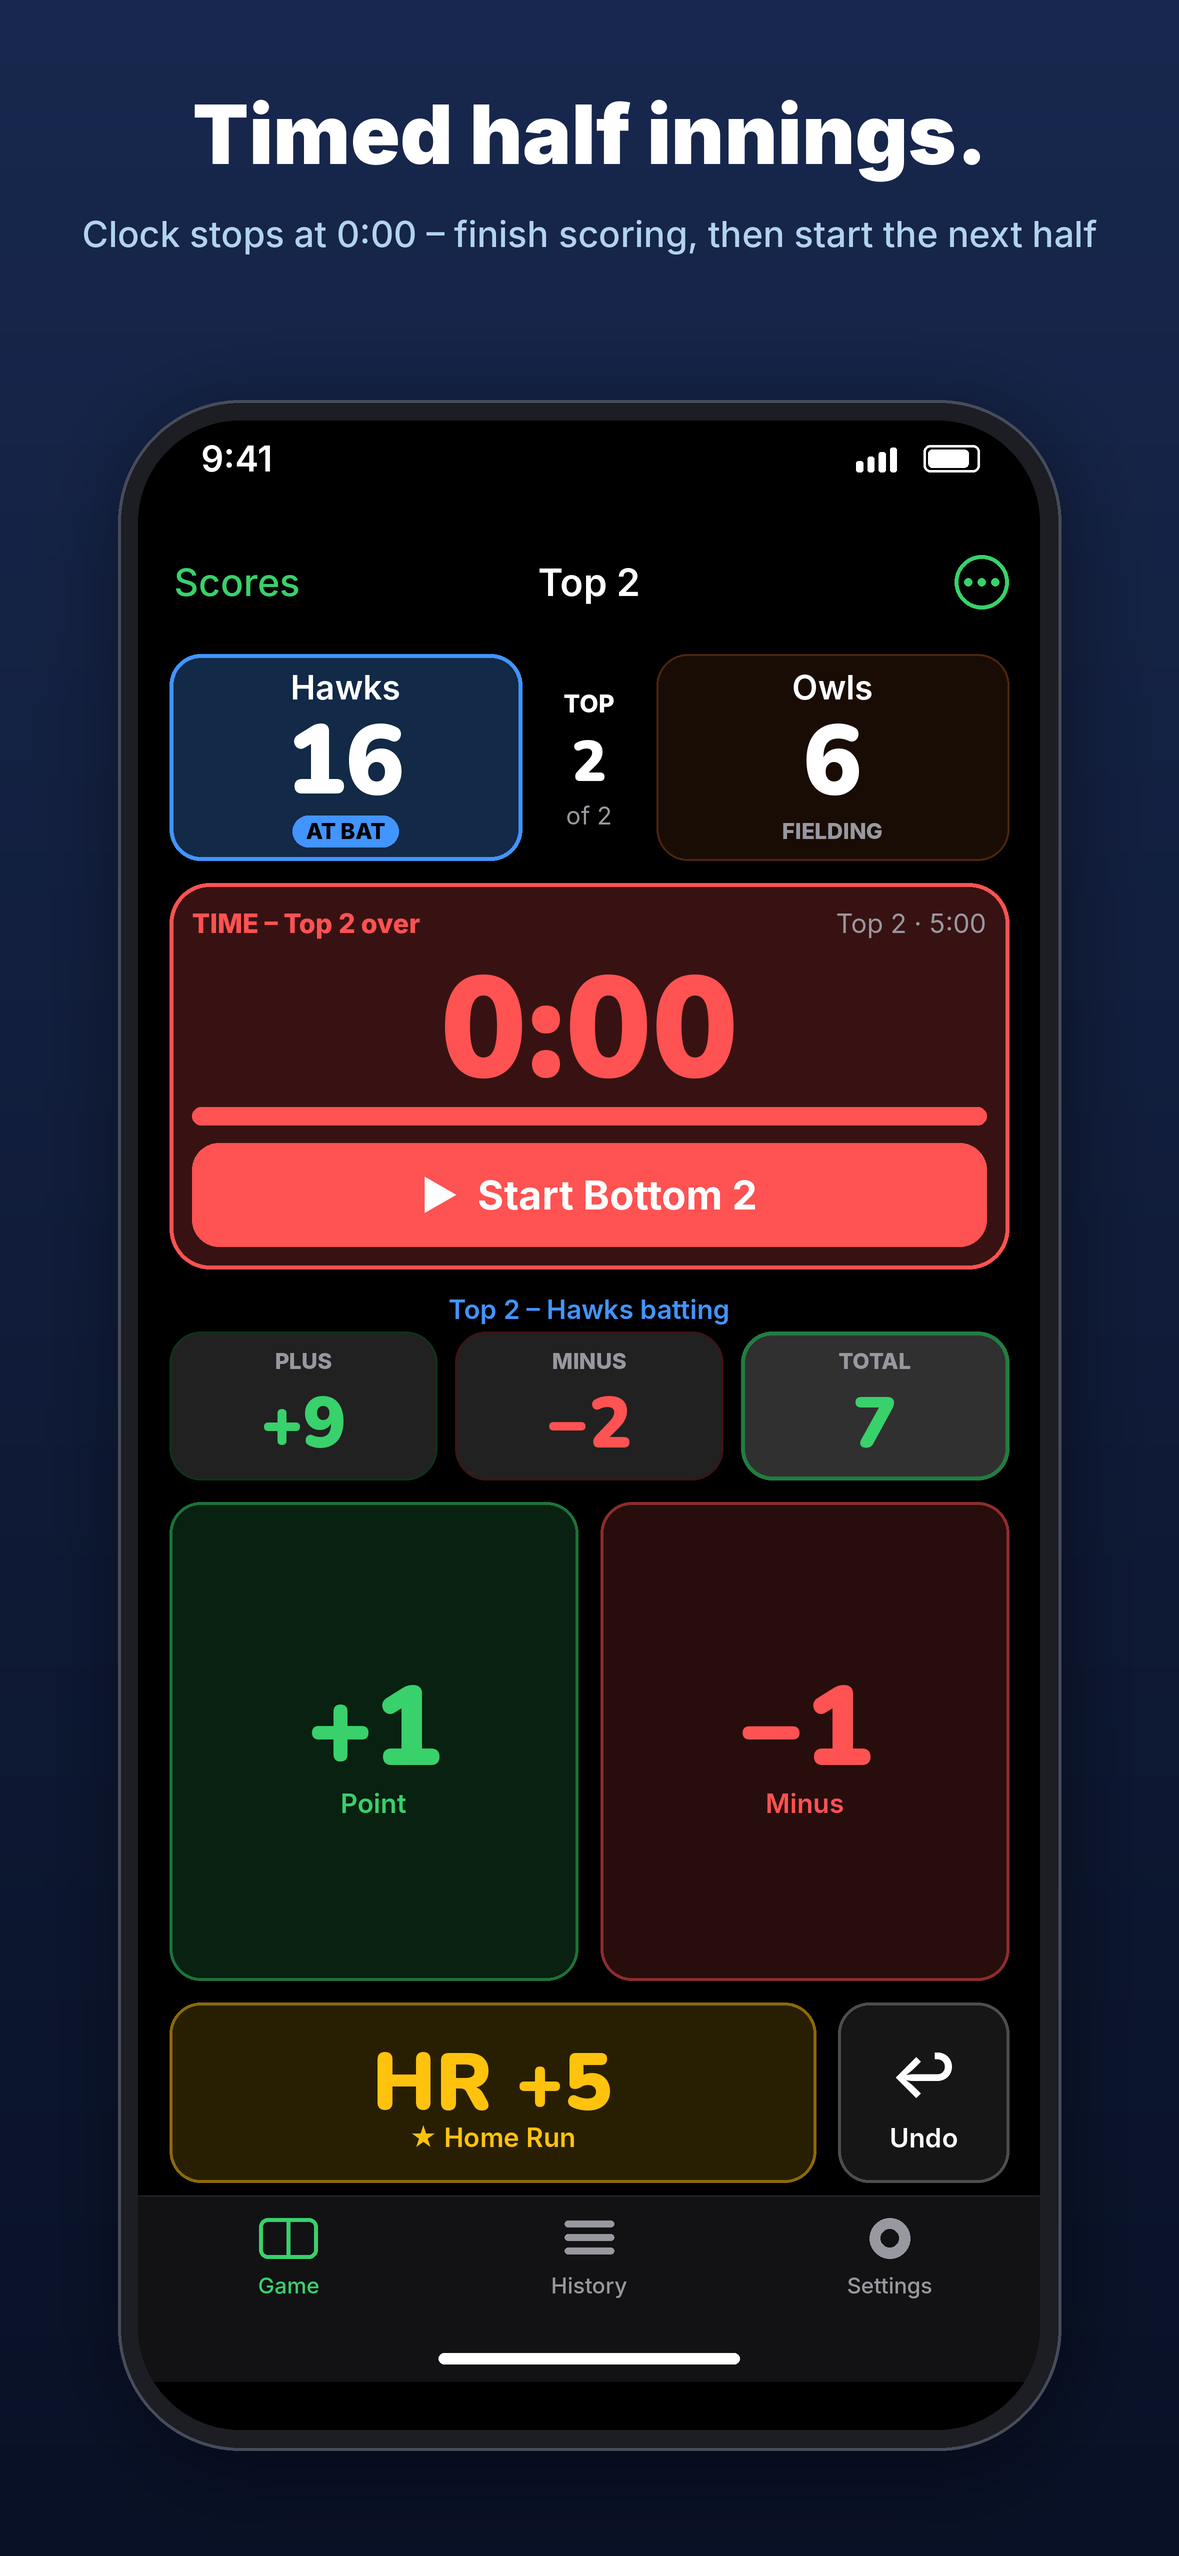
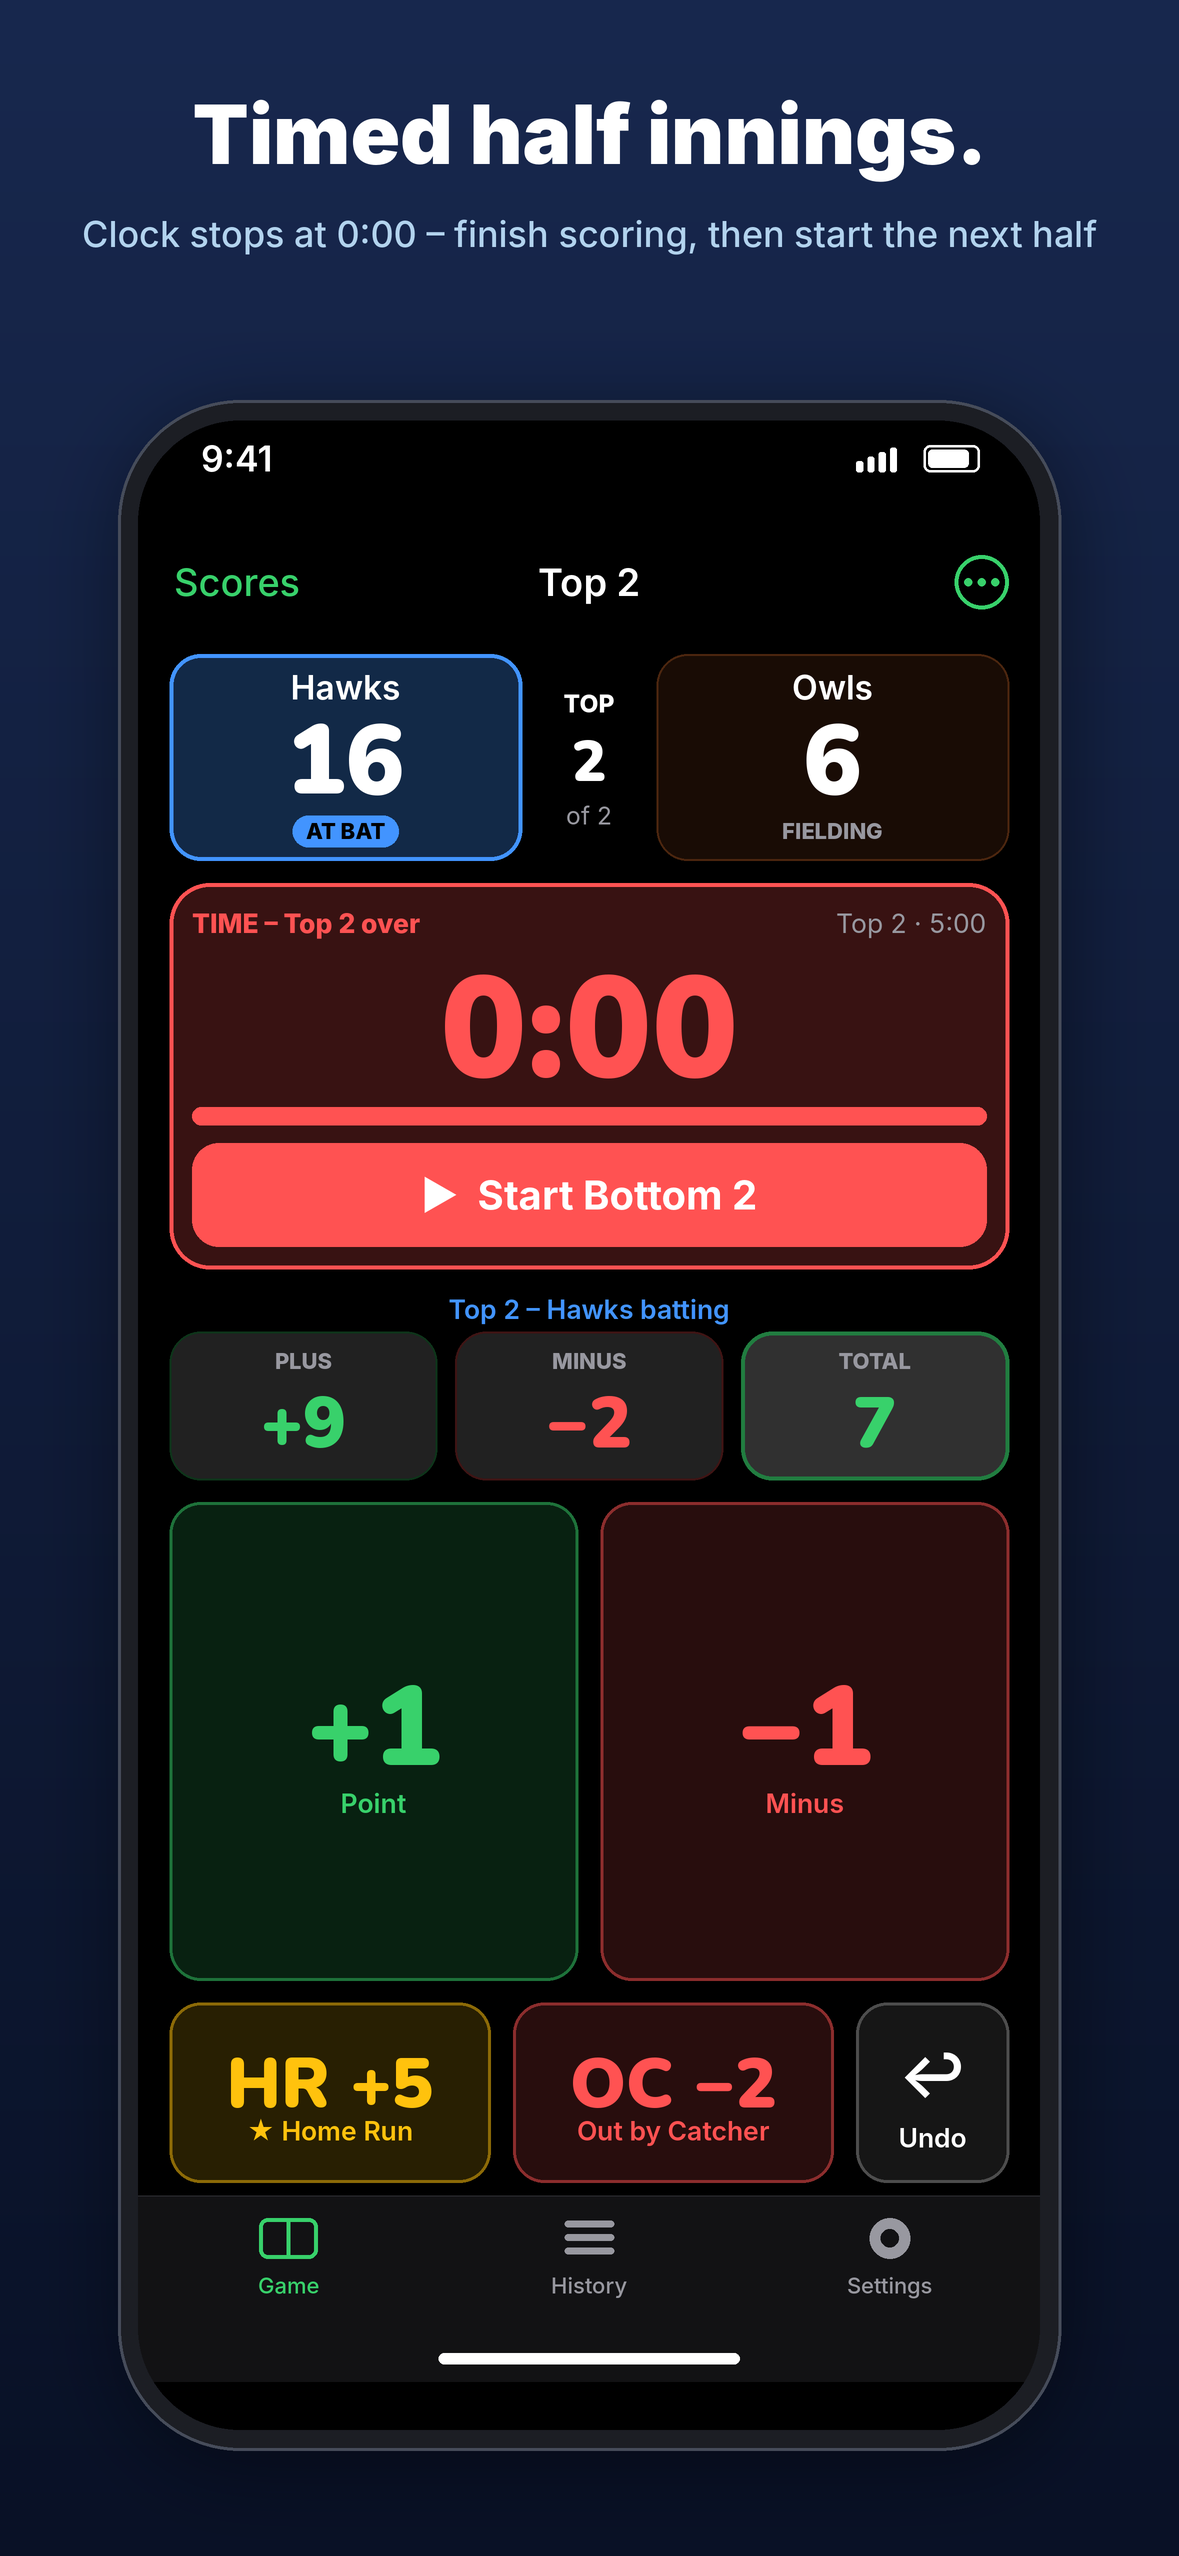
Redraw App Store images with the OC button
All screenshots (iPhone 6.9/6.5/6.3/6.1, 886x1920, Duo, iPad, Watch) and the
header / search / universal artwork regenerated in place: indoor pad now
shows HR, OC and Undo; headline is "Big buttons. Every point."

Claude-Session: https://claude.ai/code/session_015K2cU2H2J1NzsJFwMqfddx

Changed region(s): [[0.3053, 0.7727, 0.7328, 0.8654], [0.7634, 0.8036, 0.8244, 0.8654], [0.1832, 0.8036, 0.2748, 0.8345]]

diff --git a/AppStore/make_screenshots.py b/AppStore/make_screenshots.py
@@ -289,11 +289,14 @@ def scoring_pad(s, x, y, w, h, hr=5, large=False, compact=False):
     bw = (w - gap) / 2
     pad_button(s, x, y, bw, row1, "+1", "Point", POS, 50 if not large else 64)
     pad_button(s, x + bw + gap, y, bw, row1, "−1", "Minus", NEG, 50 if not large else 64)
-    uw = 76 if not large else 110
-    pad_button(s, x, y + row1 + gap, w - uw - gap, row2, f"HR +{hr}", "" if compact else "★ Home Run", WARN,
-               26 if compact else (36 if not large else 46))
-    ux = x + w - uw
+    # lower row: HR, OC (out by catcher at home) and Undo – matches ScoringPad.indoorPad
+    uw = 110 if large else (60 if compact else 68)
     uy = y + row1 + gap
+    bw2 = (w - uw - 2 * gap) / 2
+    big2 = 22 if compact else (31 if not large else 40)
+    pad_button(s, x, uy, bw2, row2, f"HR +{hr}", "" if compact else "★ Home Run", WARN, big2)
+    pad_button(s, x + bw2 + gap, uy, bw2, row2, "OC −2", "" if compact else "Out by Catcher", NEG, big2)
+    ux = x + w - uw
     s.rect(ux, uy, uw, row2, 14, fill=mix((140, 140, 140), BLACK, 0.16), outline=mix((140, 140, 140), BLACK, 0.55), width=1.5)
     if compact:
         s.text(ux + uw / 2, uy + row2 / 2, "↩", "b", 22, WHITE, "mm")
@@ -517,21 +520,24 @@ def watch_scoring(s):
             s.rect(tx, y, tw, 26, 6, fill=(38, 38, 40))
         s.text(tx + tw / 2, y + 13, v, "rnd", 20, c, "mm")
     y += 32
-    gap = 5
-    rh1 = 112
+    gap = 4
+    rh2 = 44                      # HR / OC / Undo row, as in WatchScorePage
+    rh1 = h - y - rh2 - gap - 8
     bw = (w - 16 - gap) / 2
     for i, (t, c) in enumerate((("+1", POS), ("−1", NEG))):
         bx = 8 + i * (bw + gap)
         s.rect(bx, y, bw, rh1, 14, fill=mix(c, BLACK, 0.16), outline=mix(c, BLACK, 0.55), width=1.2)
         s.text(bx + bw / 2, y + rh1 / 2, t, "rnd", 44, c, "mm")
     y += rh1 + gap
-    rh2 = h - y - 10
-    uw = 46
-    s.rect(8, y, w - 16 - uw - gap, rh2, 14, fill=mix(WARN, BLACK, 0.16), outline=mix(WARN, BLACK, 0.55), width=1.2)
-    s.text(8 + (w - 16 - uw - gap) / 2, y + rh2 / 2, "HR +5", "rnd", 26, WARN, "mm")
+    uw = 36
+    bw2 = (w - 16 - uw - 2 * gap) / 2
+    for i, (t, c) in enumerate((("HR +5", WARN), ("OC −2", NEG))):
+        bx = 8 + i * (bw2 + gap)
+        s.rect(bx, y, bw2, rh2, 12, fill=mix(c, BLACK, 0.16), outline=mix(c, BLACK, 0.55), width=1.2)
+        s.text(bx + bw2 / 2, y + rh2 / 2, t, "rnd", 19, c, "mm")
     ux = w - 8 - uw
-    s.rect(ux, y, uw, rh2, 14, fill=(30, 30, 32), outline=(80, 80, 84), width=1.2)
-    s.text(ux + uw / 2, y + rh2 / 2, "↩", "b", 20, WHITE, "mm")
+    s.rect(ux, y, uw, rh2, 12, fill=(30, 30, 32), outline=(80, 80, 84), width=1.2)
+    s.text(ux + uw / 2, y + rh2 / 2, "↩", "b", 17, WHITE, "mm")
 
 
 def watch_clock(s):
@@ -583,7 +589,7 @@ def make_icon():
 
 # ---------------------------------------------------------------- main
 SHOTS = [
-    ("1_scoring", "Three buttons. Every point.", "+1  ·  −1  ·  Home Run  –  live Plus / Minus / Total",
+    ("1_scoring", "Big buttons. Every point.", "+1  ·  −1  ·  Home Run  ·  Out by Catcher  –  live tallies",
      lambda s: iphone_live(s, "running")),
     ("2_timeup", "Timed half innings.", "Clock stops at 0:00 – finish scoring, then start the next half",
      lambda s: iphone_live(s, "timeup")),

diff --git a/AppStore/make_promo.py b/AppStore/make_promo.py
@@ -103,16 +103,16 @@ def compose(W, H, safe, name):
         return ms.font(kind, px)
 
     hl = int(sh * 0.135)
-    f1 = fit("Three buttons.", "blk", hl)
+    f1 = fit("Big buttons.", "blk", hl)
     f2 = fit("Every point.", "blk", hl)
     hl_px = min(f1.size, f2.size)
     y = iy + icon_sz + sh * 0.10
-    d.text((tx, y), "Three buttons.", font=ms.font("blk", hl_px), fill=ms.WHITE, anchor="la")
+    d.text((tx, y), "Big buttons.", font=ms.font("blk", hl_px), fill=ms.WHITE, anchor="la")
     y += hl_px * 1.12
     d.text((tx, y), "Every point.", font=ms.font("blk", hl_px), fill=ms.POWDER, anchor="la")
     y += hl_px * 1.45
-    sub = fit("+1  ·  −1  ·  Home Run  ·  timed half innings", "m", int(sh * 0.048))
-    d.text((tx, y), "+1  ·  −1  ·  Home Run  ·  timed half innings", font=sub, fill=(205, 222, 240), anchor="la")
+    sub = fit("Indoor & outdoor scoring  ·  timed half innings", "m", int(sh * 0.048))
+    d.text((tx, y), "Indoor & outdoor scoring  ·  timed half innings", font=sub, fill=(205, 222, 240), anchor="la")
     y += sub.size * 1.7
     small = fit("iPhone  ·  iPad  ·  Apple Watch", "sb", int(sh * 0.036))
     d.text((tx, y), "iPhone  ·  iPad  ·  Apple Watch", font=small, fill=(150, 170, 200), anchor="la")
